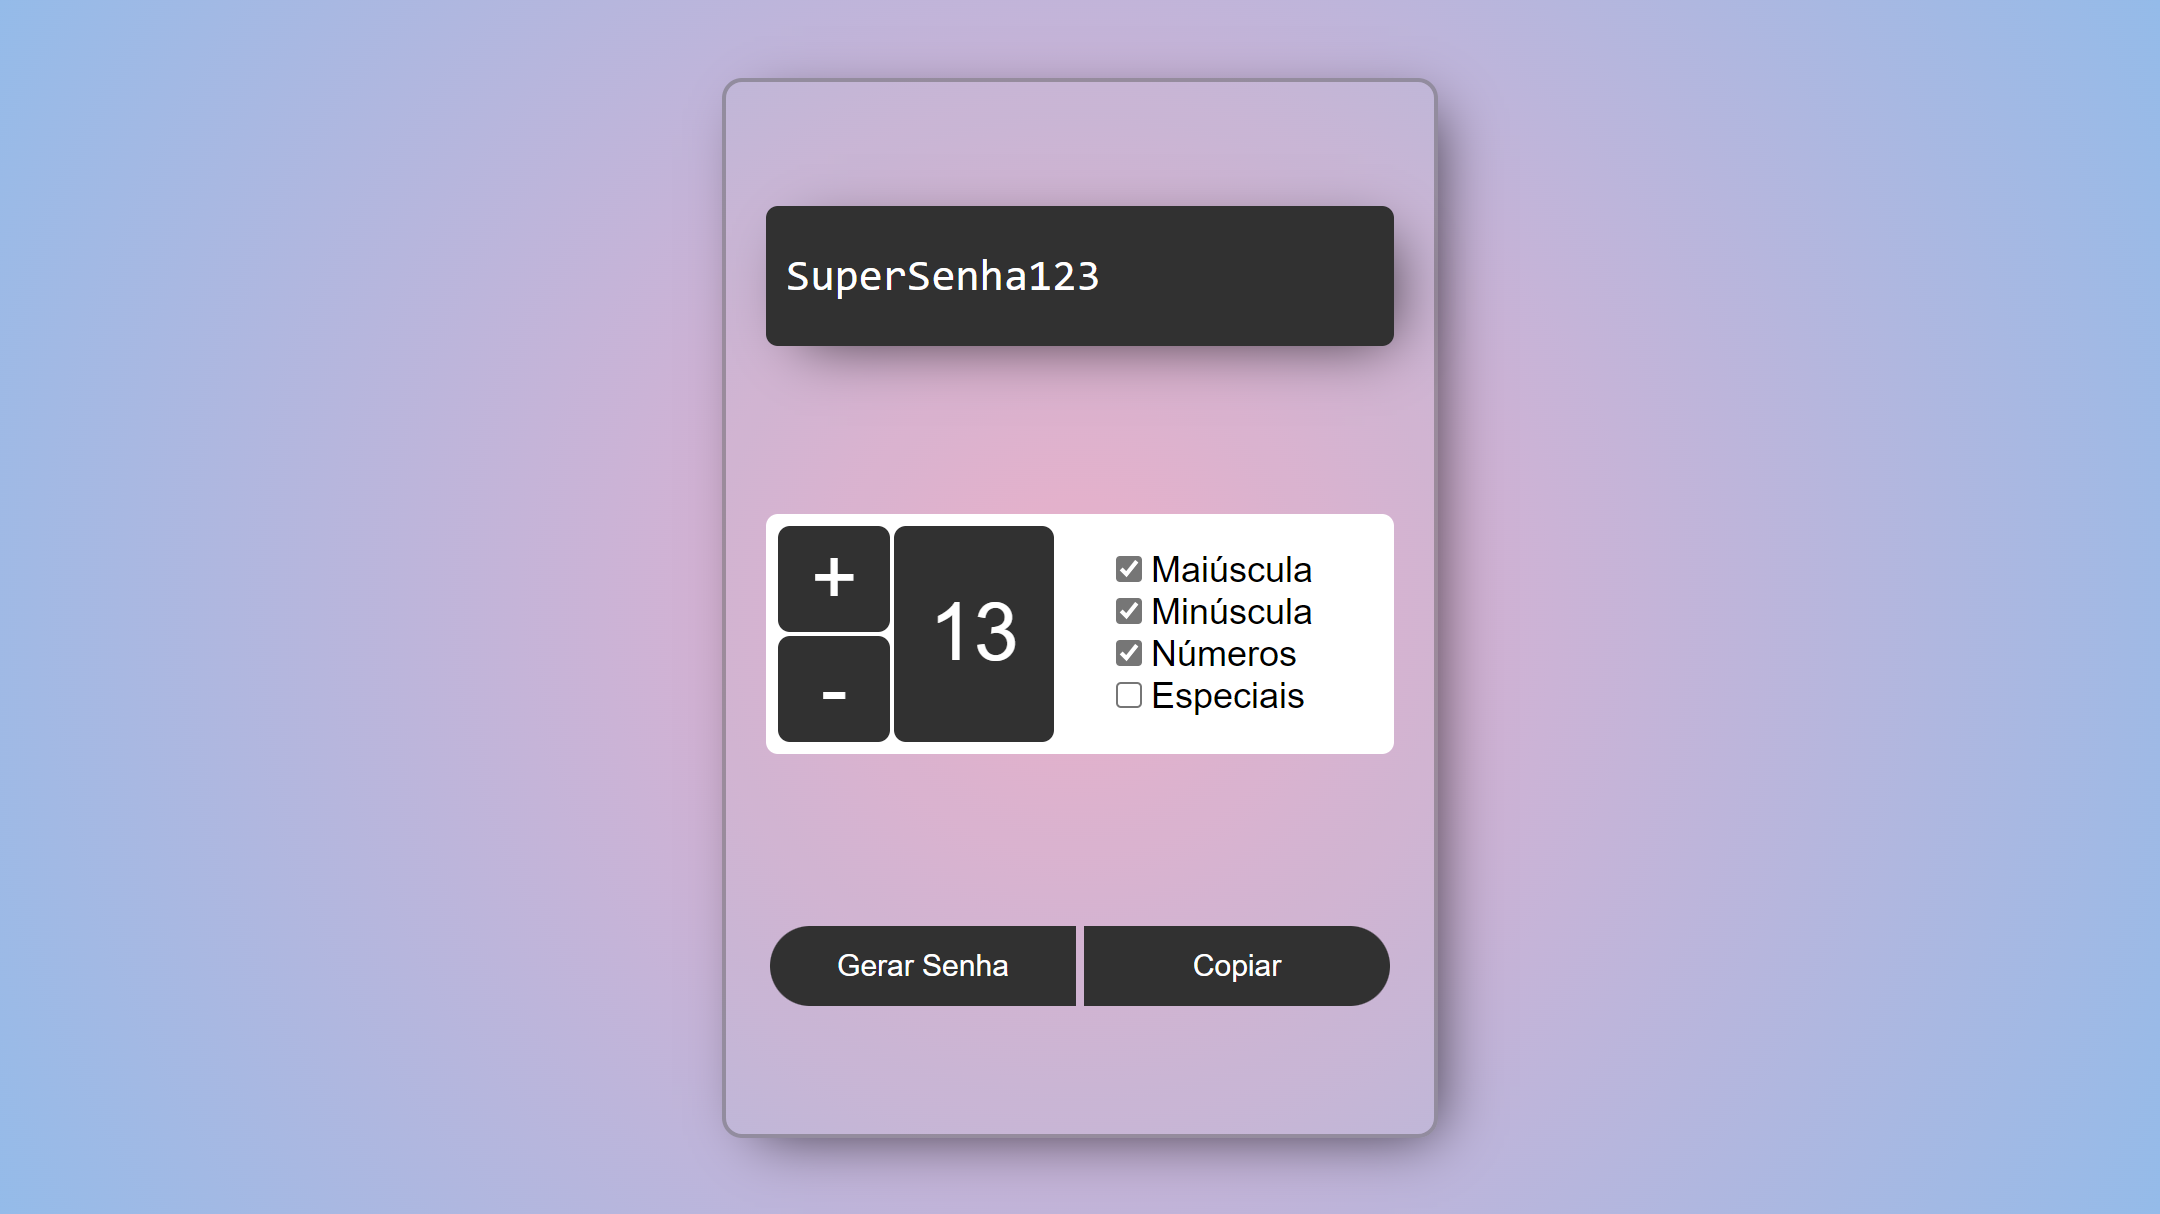
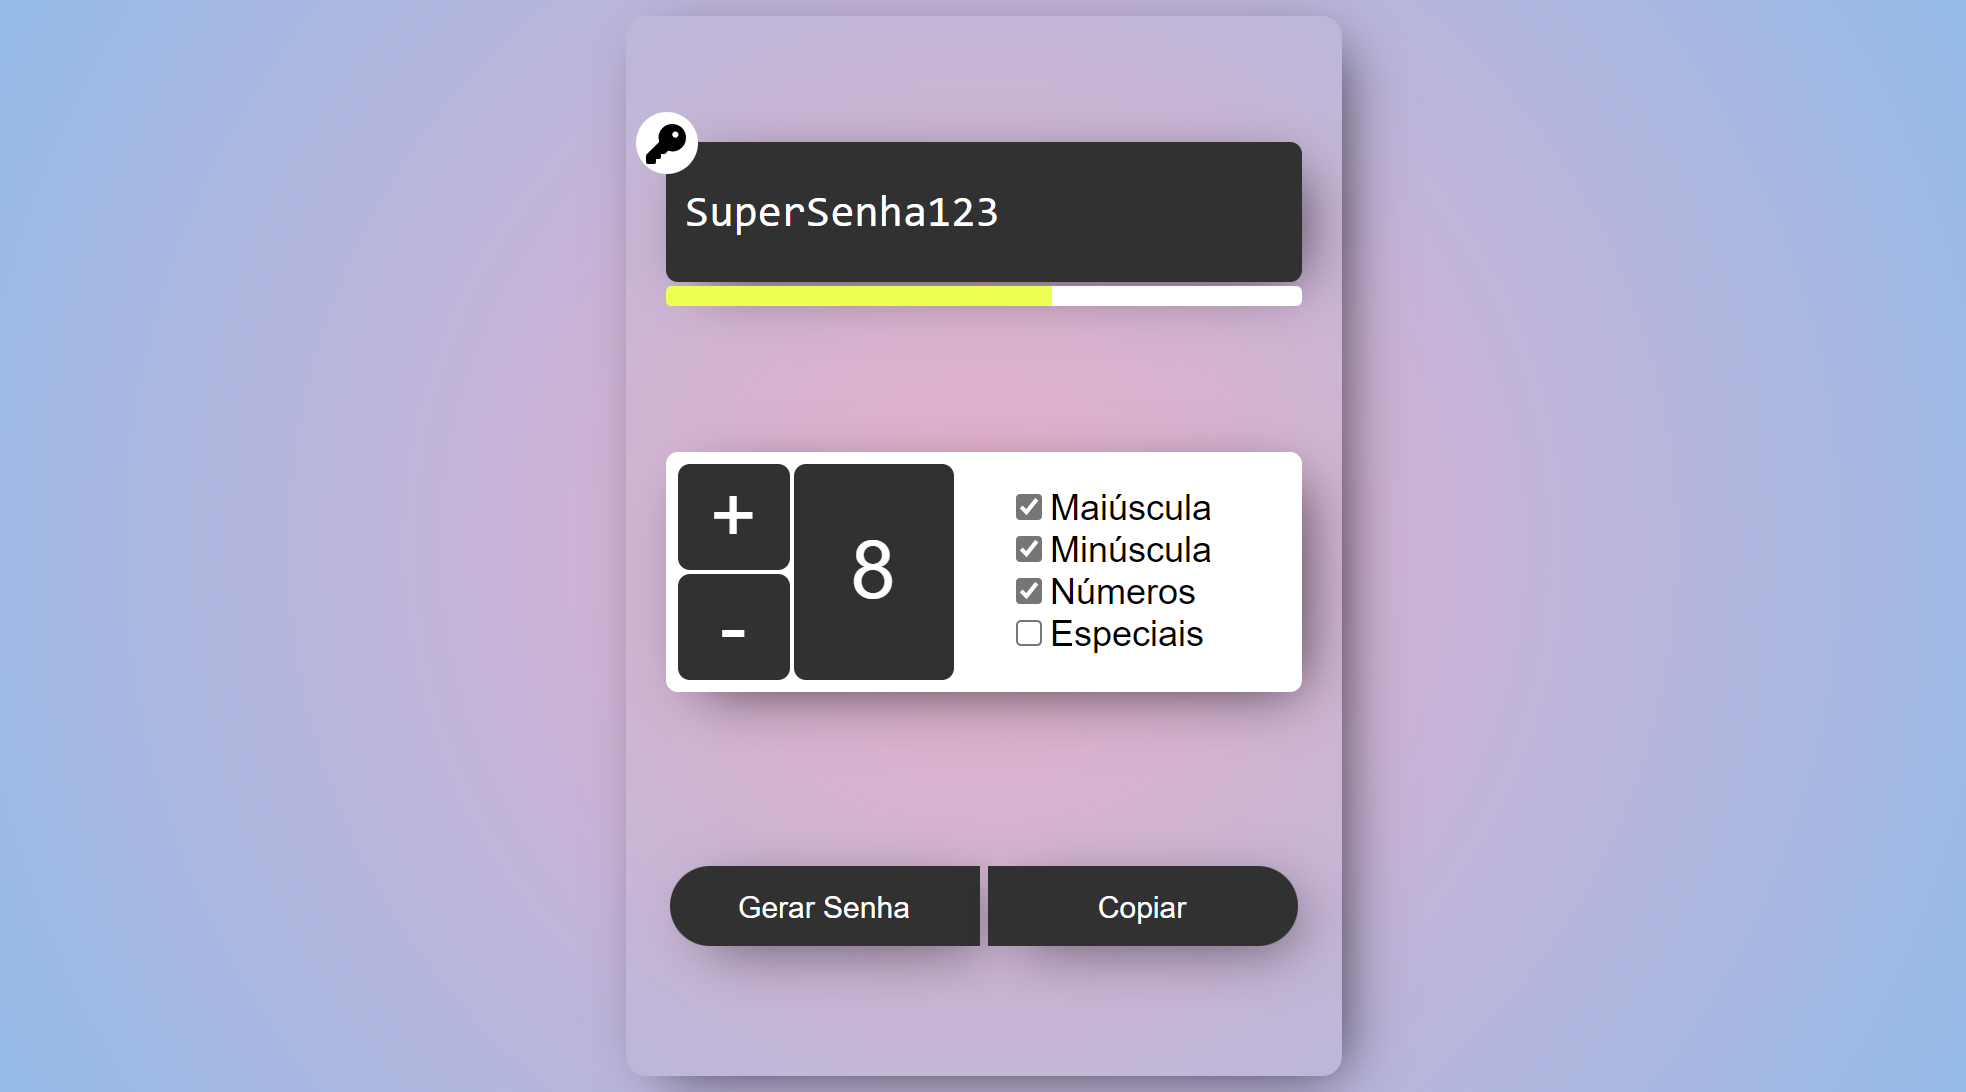
:fire:

Changed region(s): [[0.3103, 0.0311, 0.7136, 1.0]]

diff --git a/index.html b/index.html
@@ -22,7 +22,7 @@
                             d="M336 352c97.2 0 176-78.8 176-176S433.2 0 336 0S160 78.8 160 176c0 18.7 2.9 36.8 8.3 53.7L7 391c-4.5 4.5-7 10.6-7 17v80c0 13.3 10.7 24 24 24h80c13.3 0 24-10.7 24-24V448h40c13.3 0 24-10.7 24-24V384h40c6.4 0 12.5-2.5 17-7l33.3-33.3c16.9 5.4 35 8.3 53.7 8.3zm40-176c-22.1 0-40-17.9-40-40s17.9-40 40-40s40 17.9 40 40s-17.9 40-40 40z" />
                     </svg>
                 </div>
-                <pre id="pass">SuperSenha123</pre>
+                <pre id="pass">Sup3rS3nh@123</pre>
                 <div id="wrap_security_level">
                     <div id="security_level_bar">
                         <!-- add via js -->
@@ -57,13 +57,13 @@
 
                     <div class="wrap_type">
                         <input aria-keyshortcuts="e" onclick="playKeySound()" checked type="checkbox" class="type"
-                            id="number" aria-checked="false" aria-label="Números">
+                            id="number" aria-checked="true" aria-label="Números">
                         <label for="number">Números</label>
                     </div>
 
                     <div class="wrap_type">
-                        <input aria-keyshortcuts="r" onclick="playKeySound()" type="checkbox" class="type" id="special"
-                            aria-checked="false" aria-label="Especiais">
+                        <input aria-keyshortcuts="r" onclick="playKeySound()" checked type="checkbox" class="type" id="special"
+                            aria-checked="true" aria-label="Especiais">
                         <label for="special">Especiais</label>
                     </div>
                 </div>

diff --git a/dist/app.js b/dist/app.js
@@ -137,6 +137,7 @@ function getPass() {
     }
     else {
         upper.checked = true;
+        lower.checked = true;
         getPass();
     }
 }

diff --git a/src/app.ts b/src/app.ts
@@ -171,6 +171,7 @@ function getPass() {
 
     } else {
         upper.checked = true;
+        lower.checked = true;
         getPass();
     }
 }
